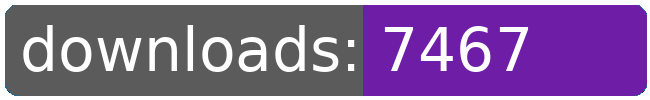
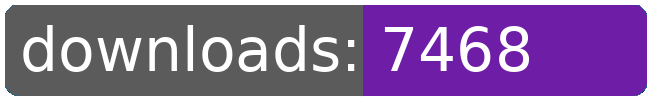
dl log written

Changed region(s): [[0.7692, 0.24, 0.8308, 0.72]]

diff --git a/README.md b/README.md
@@ -21,8 +21,8 @@
 		<td>7400</td>
 		<td>7425</td>
 		<td>7451</td>
-		<td>7467</td>
-		<td>+ 16</td>
+		<td>7468</td>
+		<td>+ 17</td>
 	</tr>
 	<tr>
 		<td>aberrant.kahet.outfitter</td>
@@ -274,8 +274,8 @@
 		<td></td>
 		<td></td>
 		<td></td>
-		<td>109186</td>
-		<td>351</td>
+		<td>109187</td>
+		<td>352</td>
 	</tr>
 </table>
 </sub></sup>
@@ -300,8 +300,8 @@
 		<td>7400</td>
 		<td>7425</td>
 		<td>7451</td>
-		<td>7467</td>
-		<td>+ 16</td>
+		<td>7468</td>
+		<td>+ 17</td>
 	</tr>
 	<tr>
 		<td>aberrant.kahet.outfitter</td>
@@ -553,8 +553,8 @@
 		<td></td>
 		<td></td>
 		<td></td>
-		<td>109186</td>
-		<td>351</td>
+		<td>109187</td>
+		<td>352</td>
 	</tr>
 </table>
 </sub></sup>
